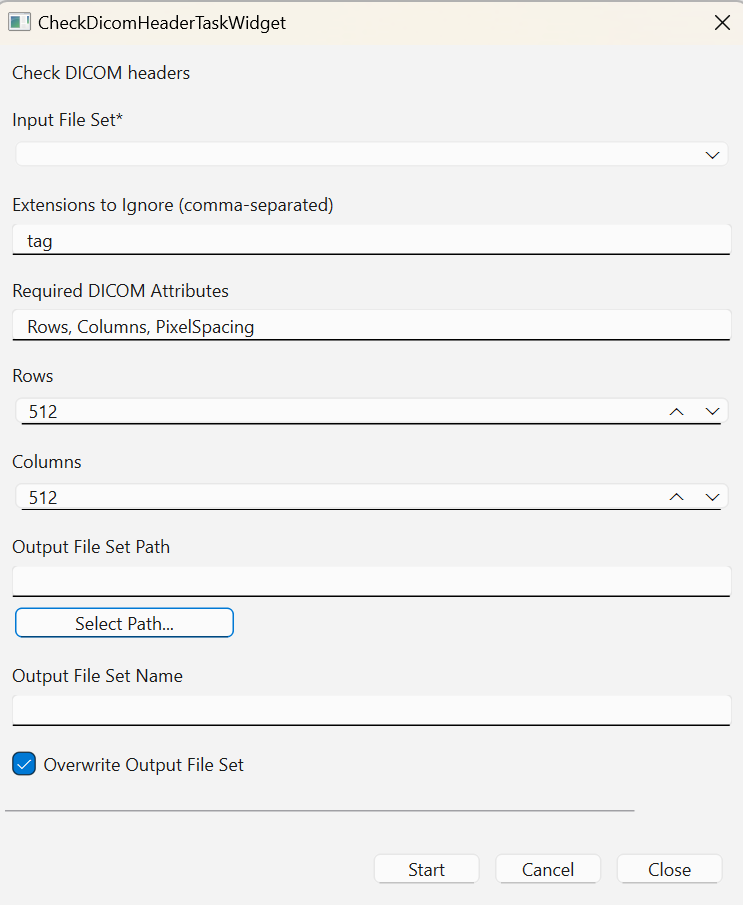
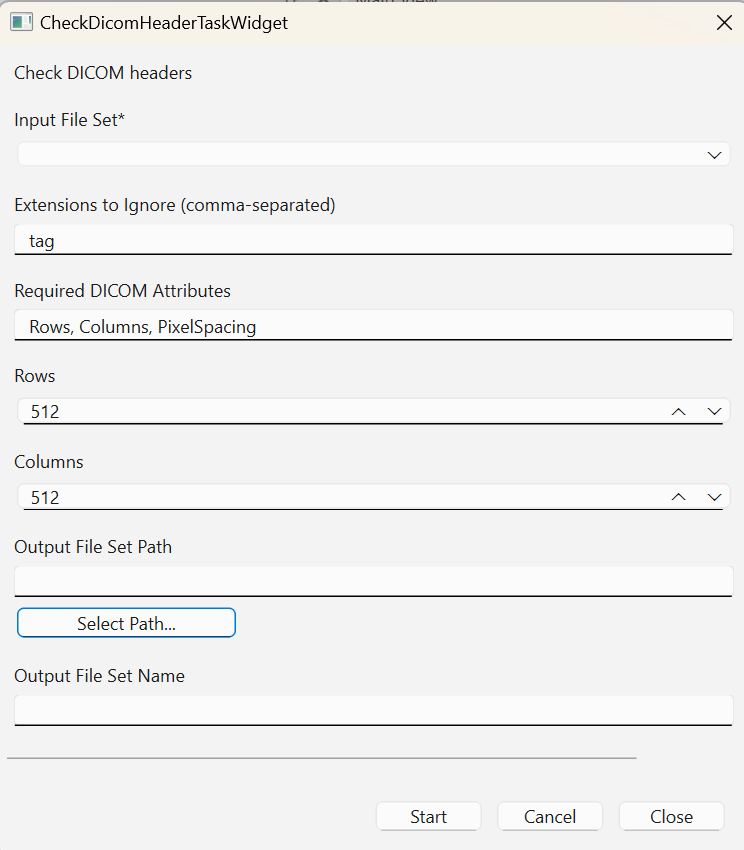
Saving work

diff --git a/mosamaticdesktop/tasks/checkdicomheadertask/checkdicomheadertask.py b/mosamaticdesktop/tasks/checkdicomheadertask/checkdicomheadertask.py
@@ -53,11 +53,6 @@ class CheckDicomHeaderTask(Task):
             labelText='Output File Set Name',
             optional=True,
         )
-        self.addBooleanParameter(
-            name='overwriteOutputFileSet',
-            labelText='Overwrite Output File Set',
-            defaultValue=True,
-        )
 
     def execute(self) -> None:
         inputFileSetName = self.parameter('inputFileSetName').value()
@@ -69,11 +64,7 @@ class CheckDicomHeaderTask(Task):
         outputFileSetName = self.parameter('outputFileSetName').value()
         if outputFileSetName is None:
             outputFileSetName = self.generateTimestampForFileSetName(name=inputFileSetName)
-        overwriteOutputFileSet = self.parameter('overwriteOutputFileSet').value()
         outputFileSetPath = os.path.join(outputFileSetPath, outputFileSetName)
-        if overwriteOutputFileSet:
-            if os.path.isdir(outputFileSetPath):
-                shutil.rmtree(outputFileSetPath)
         os.makedirs(outputFileSetPath, exist_ok=False)
         step = 0
         dicomFilesOk = []
